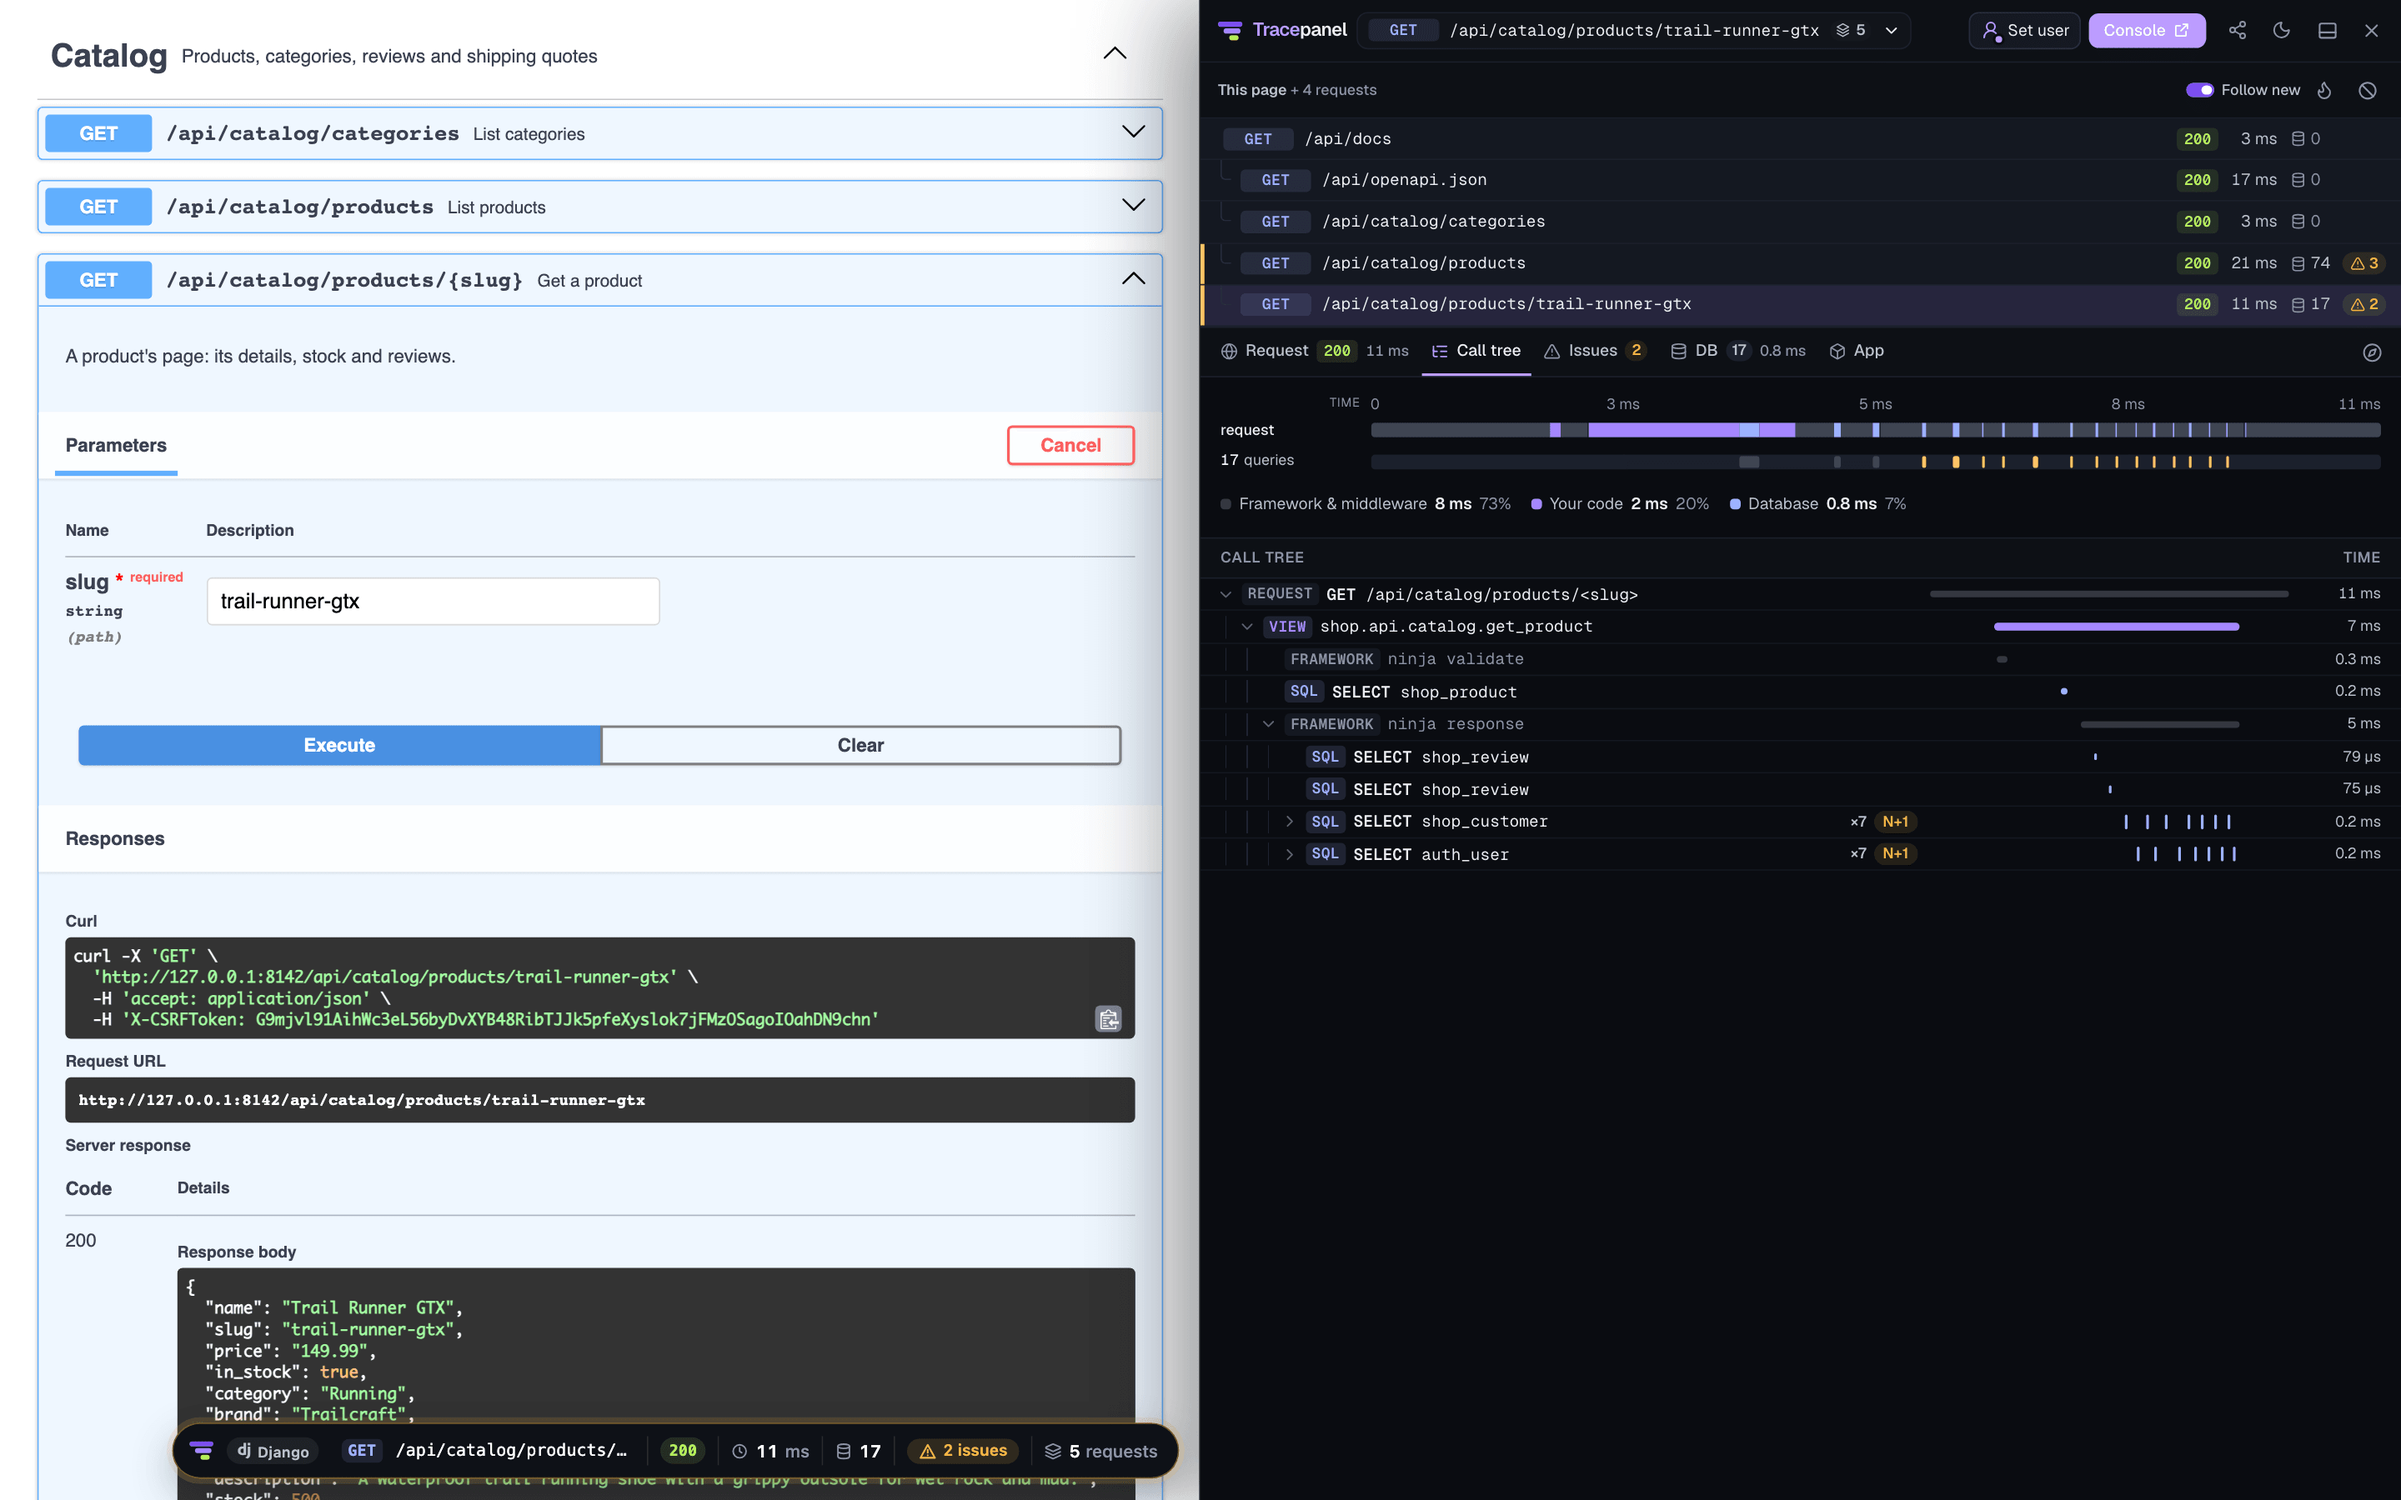
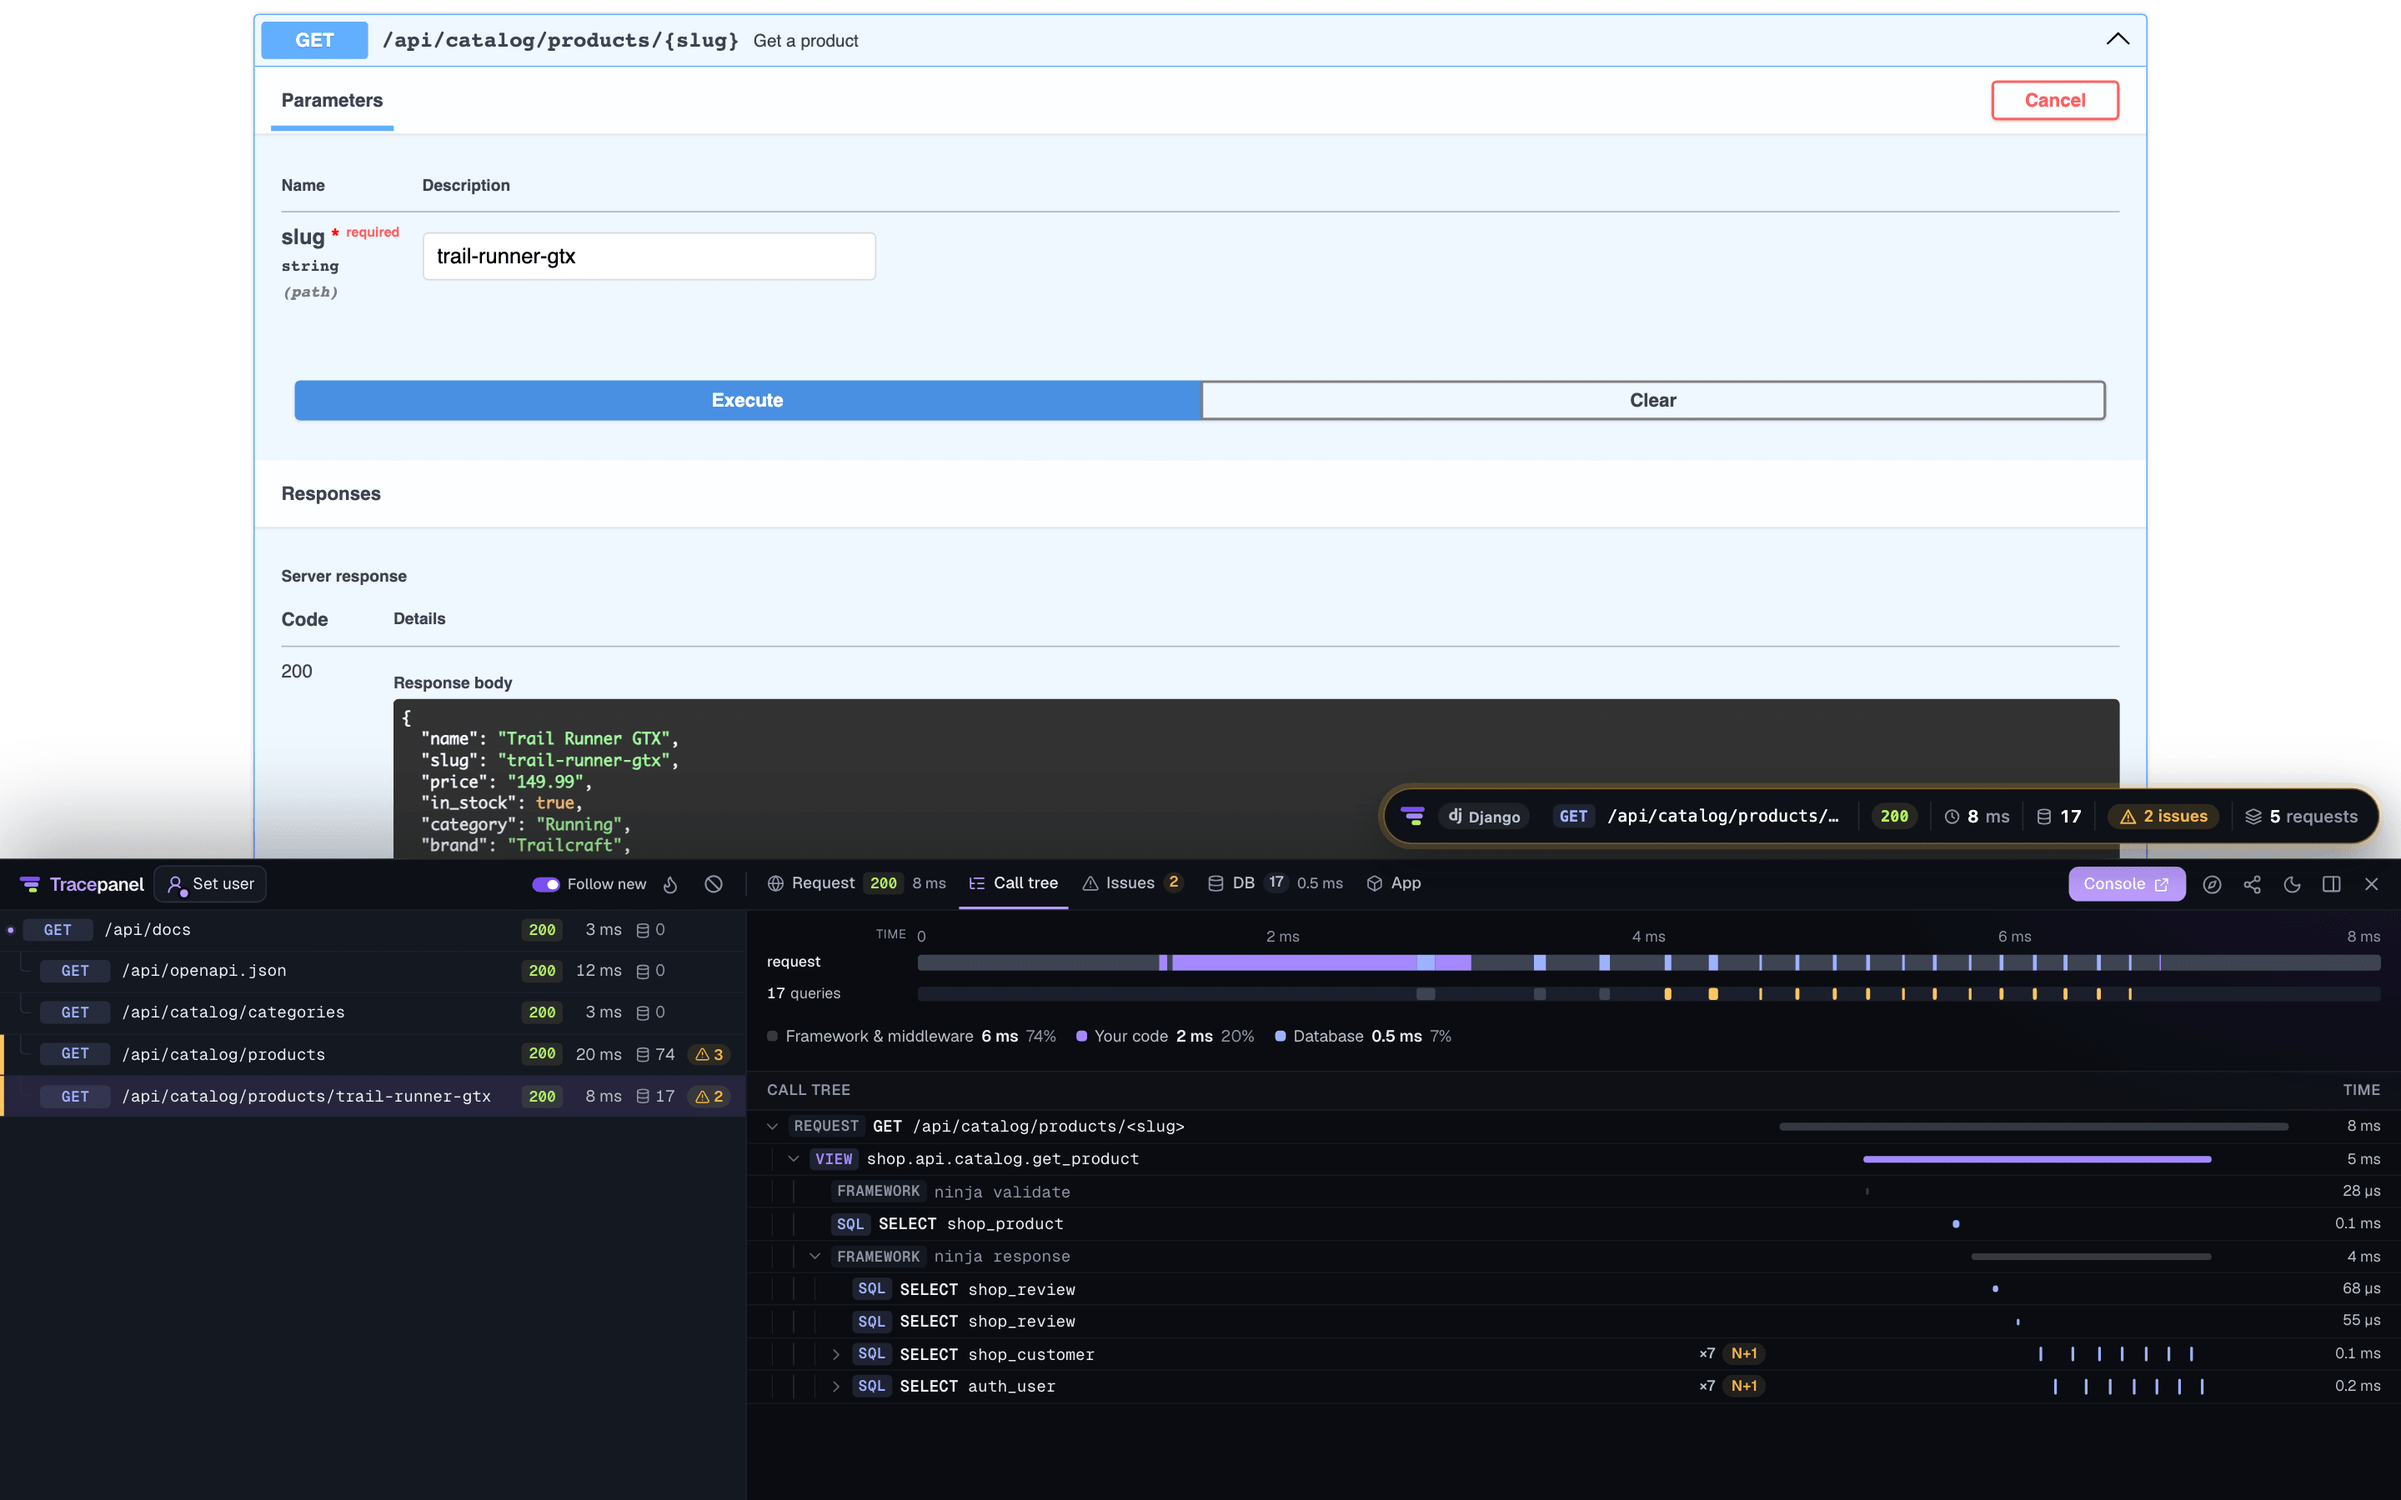
README: the panel docked under Swagger UI in its screenshots, as in the video

diff --git a/README.md b/README.md
@@ -63,13 +63,13 @@ is at `/__tracepanel__/`.
 Each request shows its call tree, with the SQL queries, the calls and the
 issues in it:
 
-![Swagger UI's endpoints on the left, one run with Try it out and its 200 response, and the panel docked on the right with the same request's call tree and its two N+1 queries](https://raw.githubusercontent.com/tracepanel/django-tracepanel/main/assets/panel-call-tree.png)
+![Swagger UI's endpoint run with Try it out and the start of its 200 response, and the panel docked under it with the same request's call tree and its two N+1 queries](https://raw.githubusercontent.com/tracepanel/django-tracepanel/main/assets/panel-call-tree.png)
 
 The panel also lists the requests your pages and tools make with `fetch()`,
 here Swagger UI's Try it out. Each issue comes with its fix in Django's terms,
 such as the `select_related()` that removes an N+1:
 
-![Swagger UI's endpoints on the left, one run with Try it out, and the panel's Issues tab for that request on the right: each N+1 with where it comes from and the fix](https://raw.githubusercontent.com/tracepanel/django-tracepanel/main/assets/panel-issues.png)
+![Swagger UI's endpoint run with Try it out, and the panel docked under it on that request's Issues tab: each N+1 with where it comes from and the fix](https://raw.githubusercontent.com/tracepanel/django-tracepanel/main/assets/panel-issues.png)
 
 The console shows every endpoint over time, with the slowest and the failing
 ones:

diff --git a/CHANGELOG.md b/CHANGELOG.md
@@ -10,8 +10,8 @@ version. What changes in each version is in
 
 - The README opens with the 40-second demo video: Swagger UI's Try it out
   with the panel docked under it.
-- The README's panel screenshots show Swagger UI in its light theme beside the
-  dark panel.
+- The README's panel screenshots show Swagger UI in its light theme, the dark
+  panel docked under it.
 
 ## 0.5.3 (2026-10-26)
 
